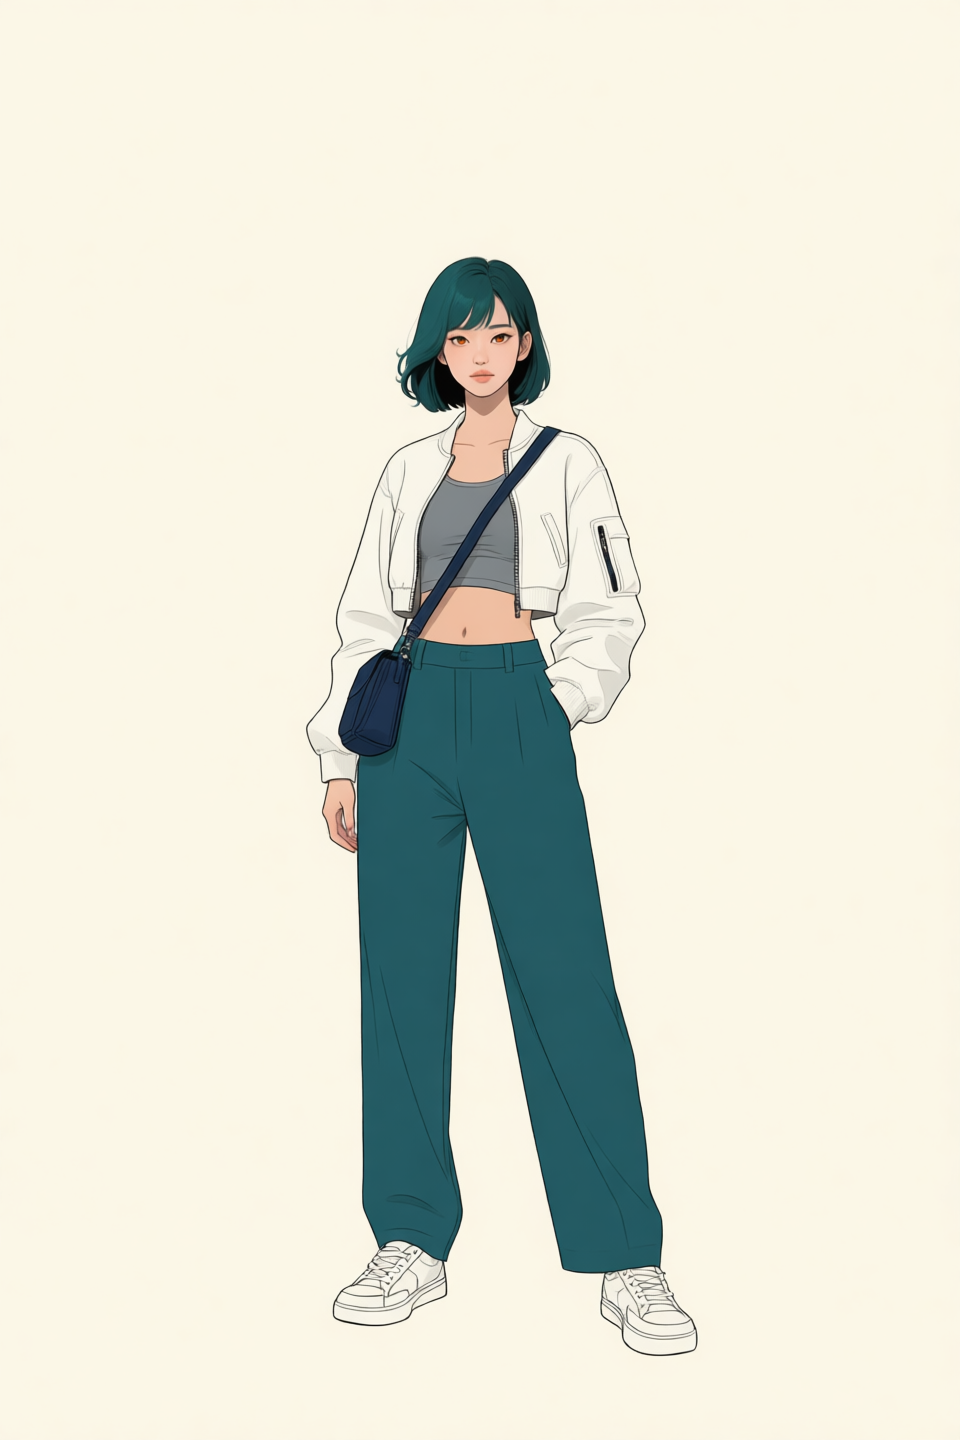
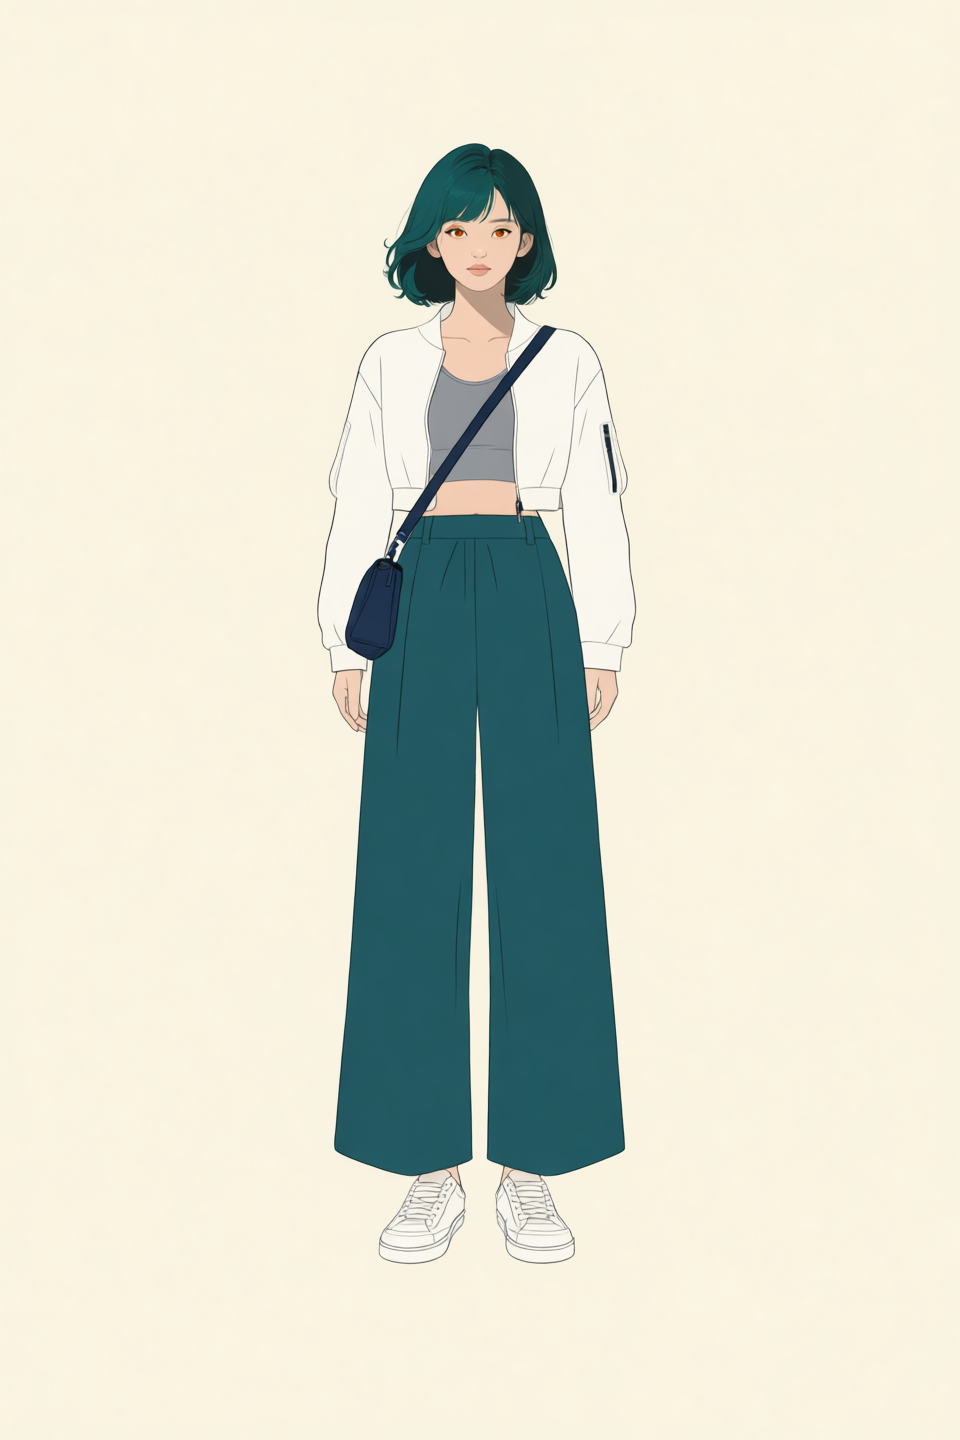
feat(p7-5-2): approve updated Qwen front reference

Changed region(s): [[0.3125, 0.0938, 0.7188, 0.9375]]

diff --git a/docs/assets/part-07/chapter-05/p7_5_2_qwen_edit_reference_pilot.py b/docs/assets/part-07/chapter-05/p7_5_2_qwen_edit_reference_pilot.py
@@ -22,7 +22,7 @@ from pathlib import Path
 
 import numpy as np
 import torch
-from diffusers import QwenImageControlNetModel, QwenImageControlNetPipeline, QwenImageEditPlusPipeline, QwenImagePipeline
+from diffusers import QwenImageEditPlusPipeline, QwenImagePipeline
 from diffusers.utils import load_image
 from nunchaku import NunchakuQwenImageTransformer2DModel
 from PIL import Image
@@ -37,7 +37,6 @@ MODEL_ID = "Qwen/Qwen-Image-Edit-2509"
 TRANSFORMER_ID = "nunchaku-tech/nunchaku-qwen-image-edit-2509/svdq-fp4_r128-qwen-image-edit-2509.safetensors"
 BASE_MODEL_ID = "Qwen/Qwen-Image"
 BASE_TRANSFORMER_ID = "/home/cbsim/.cache/huggingface/hub/models--nunchaku-tech--nunchaku-qwen-image/snapshots/4d9f4f667ea571ab172e0ee29ac2c27b82a41a6b/svdq-fp4_r128-qwen-image.safetensors"
-CONTROLNET_ID = "InstantX/Qwen-Image-ControlNet-Union"
 OUTPUT_DIR = ASSETS / "p7-5-2-qwen-edit-candidates"
 DEFAULT_STEPS = 20
 QWEN_FACE_REFERENCE = "p7-5-2-face-front-qwen-role-separated-reference.png"
@@ -148,7 +147,7 @@ TARGETS = {
         "inputs": (
             QWEN_FACE_REFERENCE,
             "p7-5-2-fullbody-front-qwen-jacket-bag-reference.png",
-            "p7-5-2-openpose-five-yaw-pitch0-fov30-5-v2/p7-5-2-openpose-relation-yaw+00_pitch+00.png",
+            "p7-5-2-openpose-five-yaw-pitch0-fov30-frame-up-v1/p7-5-2-openpose-relation-yaw+00_pitch+00.png",
         ),
         "append_style_prompt": False,
         "append_illustration_prompt": True,
@@ -302,80 +301,6 @@ TARGETS = {
             "Image 3 is a body-only OpenPose structural map; do not render it. Create one upright 45-degree left front-quarter full body from hair crown to shoe soles. The nearer image-right hand rests on the waist while its elbow is lifted wide at shoulder height, creating a large triangular arm silhouette; the image-left arm is lowered. Shift weight onto the nearer leg with the far knee and foot relaxed behind. Plain warm off-white background, one person, no text, panel, collage, or scene."
         ),
     },
-    "fullbody_quarter_left_hand_on_hip_controlnet": {
-        "inputs": (),
-        "control_image": "p7-5-2-openpose-quarter-left-hand-on-hip-elbow-out-perspective-v5/p7-5-2-openpose-relation-yaw-45_pitch+00.png",
-        "append_style_prompt": False,
-        "append_illustration_prompt": True,
-        "default_steps": 12,
-        "size": (960, 1440),
-        "prompt": (
-            "Clean character illustration, not a photograph; dark outlines, solid colors, four-value shading, and strong highlights. A young East Asian woman, compact oval face, high straight nose, amber irises, asymmetric fringe, high-volume petrol-teal jaw-length bob; ultra-short white cropped utility jacket with long cuffed sleeves, gray micro-crop top, bare midriff, deep-teal high-waisted wide-leg trousers, white low-top sneakers, navy crossbody bag and one exterior strap. Strict 45-degree left front-quarter full body, image-right hand on waist with elbow lifted wide, image-left arm lowered, weight on nearer leg. Plain warm off-white studio background. Full figure from hair crown to both shoe soles with a clear margin below the shoes; no dark background, no cropped feet, no text, panel, or scene."
-        ),
-        "negative_prompt": "dark navy background, black background, night scene, cropped feet, missing shoes, photograph, text, panel",
-    },
-    "fullbody_quarter_left_controlnet_runtime_validation": {
-        "inputs": (),
-        "control_image": "p7-5-2-openpose-five-yaw-pitch0-fov30-frame-up-v1/p7-5-2-openpose-relation-yaw-45_pitch+00.png",
-        "append_style_prompt": False,
-        "append_illustration_prompt": True,
-        "default_steps": 5,
-        "controlnet_conditioning_scale": 1.0,
-        "size": (960, 1440),
-        "prompt": (
-            "One young East Asian woman, true 45-degree left front-quarter full body from hair crown to shoe soles. "
-            "Petrol-teal jaw-length bob, white ultra-short cropped utility jacket, gray crop top, bare midriff, deep-teal "
-            "high-waisted wide-leg trousers, white low-top sneakers, navy crossbody bag. Plain warm off-white background."
-        ),
-        "negative_prompt": "photograph, text, panel, collage, dark background, cropped feet, missing shoes",
-    },
-    "fullbody_quarter_left_hand_on_hip_controlnet_identity_prompt": {
-        "inputs": (),
-        "control_image": "p7-5-2-openpose-quarter-left-hand-on-hip-elbow-out-perspective-v5/p7-5-2-openpose-relation-yaw-45_pitch+00.png",
-        "append_style_prompt": False,
-        "append_illustration_prompt": False,
-        "default_steps": 20,
-        "controlnet_conditioning_scale": 0.85,
-        "size": (960, 1440),
-        "prompt": (
-            "Character-sheet illustration of one young East Asian woman. Her non-negotiable identity is a saturated petrol-teal, high-volume rounded jaw-length bob, with a deep asymmetric sweeping fringe, a compact oval face, a high straight nose, and amber irises. Use dark clean outlines, solid colors, deep four-value cel shading, and clear highlights; never render a photograph. "
-            "She wears an ultra-short white cropped utility jacket with long cuffed sleeves over a gray micro-crop top and visible midriff, deep-teal high-waisted wide-leg trousers, white low-top sneakers, and a navy crossbody bag with one exterior strap. "
-            "Strict 45-degree left front-quarter full body: image-right hand on waist, elbow lifted wide; image-left arm lowered; weight on the nearer leg. Plain warm off-white studio background. Show the full figure from hair crown to both shoe soles, with a clear margin below the shoes. No text, panel, collage, scene, dark background, cropped feet, missing shoes, brown hair, black hair, long hair, or low-volume hair."
-        ),
-        "negative_prompt": "brown hair, black hair, long hair, low-volume hair, dark navy background, black background, night scene, cropped feet, missing shoes, photograph, text, panel, collage",
-    },
-    "fullbody_quarter_left_hand_on_hip_controlnet_hair_color": {
-        "inputs": (),
-        "control_image": "p7-5-2-openpose-quarter-left-hand-on-hip-elbow-out-perspective-v5/p7-5-2-openpose-relation-yaw-45_pitch+00.png",
-        "append_style_prompt": False,
-        "append_illustration_prompt": False,
-        "default_steps": 20,
-        "controlnet_conditioning_scale": 0.85,
-        "size": (960, 1440),
-        "prompt": (
-            "Character-sheet illustration of one young East Asian woman. Her hair is mandatory: every visible hair mass and strand is deep petrol-teal blue-green, never black or brown. It is an extremely voluminous rounded jaw-length bob with medium-density hair, a deep viewer-right side part, and a full short fringe sweeping across the viewer-left forehead and ending above the eyebrow. Large loose S-waves, pronounced inward C-curls, and tapered side locks create an expansive rounded teal silhouette. Her compact oval face has a high straight nose and equal orange-amber irises. "
-            "Use clean dark outlines, solid colors, deep four-value cel shading, and clear highlights; never render a photograph. "
-            "She wears an ultra-short white cropped utility jacket with long cuffed sleeves over a gray micro-crop top and visible midriff, deep-teal high-waisted wide-leg trousers, white low-top sneakers, and a navy crossbody bag with one exterior strap. "
-            "Strict 45-degree left front-quarter full body: image-right hand rests visibly on waist with elbow lifted wide; image-left arm is lowered and its complete hand is visibly beside the thigh, not hidden by the bag. Keep both white shoes fully visible below the trouser hems. Plain warm off-white studio background. Show the full figure from teal hair crown to both shoe soles, with a clear margin below the shoes. No text, panel, collage, scene, dark background, cropped body parts, missing hands, missing shoes, black hair, brown hair, long hair, or low-volume hair."
-        ),
-        "negative_prompt": "black hair, brown hair, near-black hair, long hair, low-volume hair, hidden hand, missing hand, cropped feet, missing shoes, dark navy background, black background, night scene, photograph, text, panel, collage",
-    },
-    "fullbody_quarter_left_hand_on_hip_face_identity_refine": {
-        "inputs": (
-            "p7-5-2-qwen-edit-candidates/p7-5-2-qwen-edit-prompt-style-fullbody_quarter_left_hand_on_hip_controlnet-v3-control-image-offwhite-fullbody-quality-seed-62294-steps-12.png",
-            QWEN_FACE_REFERENCE,
-        ),
-        "append_style_prompt": False,
-        "append_illustration_prompt": True,
-        "default_steps": 5,
-        "size": (960, 1440),
-        "prompt": (
-            "Image 1 is the locked full-body composition: preserve its 45-degree left front-quarter pose, image-right hand on the waist with the elbow wide, lowered image-left arm, warm off-white background, full-body framing, jacket, crossbody bag, wide-leg trousers, and both sneakers. "
-            "Image 2 is the exact identity reference: replace only the head and face in image 1 to match it. Preserve its saturated petrol-teal jaw-length bob with high rounded volume, asymmetric sweeping fringe, compact oval face, high straight nose, and amber irises. "
-            "Do not change the body pose, head size, camera, background, clothing, bag, trousers, shoes, or crop. Keep the head naturally turned with the existing quarter view. One clean character illustration, no text, panel, or collage."
-        ),
-        "negative_prompt": "brown hair, black hair, long hair, low-volume hair, dark navy background, black background, cropped feet, missing shoes, photograph, text, panel, collage",
-    },
     "fullbody_front_quarter_left_qwen": {
         "inputs": (
             "p7-5-2-fullbody-front-qwen-jacket-bag-reference.png",
@@ -511,7 +436,7 @@ def openpose_module():
 
 
 def save_openpose_guide(target_id: str, path: Path) -> None:
-    """Render a canonical ControlNet/OpenPose BODY_18 + face-landmark map.
+    """Render a canonical OpenPose BODY_18 + face-landmark guide.
 
     No subject RGB pixels are used.  Direction comes from the nose displacement
     and asymmetric face-landmark geometry, then the installed OpenPose renderer
@@ -621,25 +546,6 @@ def load_pipeline(image_edit: bool):
     return pipe
 
 
-def load_controlnet_pipeline():
-    transformer = NunchakuQwenImageTransformer2DModel.from_pretrained(BASE_TRANSFORMER_ID)
-    controlnet = QwenImageControlNetModel.from_pretrained(CONTROLNET_ID, torch_dtype=torch.bfloat16, local_files_only=True)
-    pipe = QwenImageControlNetPipeline.from_pretrained(
-        BASE_MODEL_ID,
-        transformer=transformer,
-        controlnet=controlnet,
-        torch_dtype=torch.bfloat16,
-        local_files_only=True,
-    )
-    # This path has an additional ControlNet next to the Qwen-VL text encoder.
-    # Keep one quantized transformer block resident, then sequentially offload
-    # all remaining modules on the 7.5GB GPU.
-    transformer.set_offload(True, use_pin_memory=False, num_blocks_on_gpu=1)
-    pipe._exclude_from_cpu_offload.append("transformer")
-    pipe.enable_sequential_cpu_offload()
-    return pipe
-
-
 def main() -> None:
     parser = argparse.ArgumentParser(description=__doc__)
     parser.add_argument("--target", choices=tuple(TARGETS), required=True)
@@ -658,11 +564,8 @@ def main() -> None:
     if steps < 1:
         raise ValueError("--steps must be at least 1")
     inputs = [ASSETS / name for name in target["inputs"]]
-    control_path = ASSETS / target["control_image"] if "control_image" in target else None
     if missing := [str(path) for path in inputs if not path.is_file()]:
         raise FileNotFoundError("missing input asset(s): " + ", ".join(missing))
-    if control_path is not None and not control_path.is_file():
-        raise FileNotFoundError(f"missing control image: {control_path}")
     if not PLAN.is_file() or not IDENTITY_CONTRACT.is_file() or not STYLE_CONTRACT.is_file() or not ILLUSTRATION_CONTRACT.is_file():
         raise FileNotFoundError("missing P7-5.2 Qwen transition plan, identity, style, or illustration contract")
     style_prompt = json.loads(STYLE_CONTRACT.read_text(encoding="utf-8"))["portrait_style_prompt"]
@@ -681,7 +584,7 @@ def main() -> None:
     output = args.output_dir / f"{stem}.png"
     run_record = args.output_dir / f"{stem}-run.json"
     started = time.monotonic()
-    pipeline = load_controlnet_pipeline() if control_path else load_pipeline(image_edit=bool(inputs))
+    pipeline = load_pipeline(image_edit=bool(inputs))
     generation = {
         "prompt": prompt,
         "generator": torch.Generator("cpu").manual_seed(args.seed),
@@ -694,15 +597,12 @@ def main() -> None:
     }
     if inputs:
         generation["image"] = [load_image(str(path)).convert("RGB") for path in inputs]
-    if control_path:
-        generation["control_image"] = load_image(str(control_path)).convert("RGB")
-        generation["controlnet_conditioning_scale"] = target.get("controlnet_conditioning_scale", 1.0)
     result = pipeline(**generation).images[0]
     result.save(output)
     record = {
         "status": "review_required",
         "experiment_id": f"p7-5-2-qwen-edit-{args.target}",
-        "model": BASE_MODEL_ID if control_path or not inputs else MODEL_ID,
+        "model": MODEL_ID if inputs else BASE_MODEL_ID,
         "transformer": TRANSFORMER_ID if inputs else BASE_TRANSFORMER_ID,
         "runtime": runtime_record(),
         "transition_plan": asset_record(PLAN),
@@ -715,13 +615,10 @@ def main() -> None:
         },
         "target": args.target,
         "run_label": args.run_label,
-        "inputs": [asset_record(path) for path in inputs] + ([asset_record(control_path)] if control_path else []),
+        "inputs": [asset_record(path) for path in inputs],
         "input_roles": (
             []
             if args.target in {"outfit_integrated_front_hip", "outfit_integrated_front_full_length"}
-            else
-            ["standard_openpose_fullbody_control_image"]
-            if control_path
             else
             ["head_identity", "qwen_complete_outfit", "standard_openpose_fullbody_structure"]
             if args.target in {

diff --git a/management/release-notes/sections/part-07/P7-5.2.md b/management/release-notes/sections/part-07/P7-5.2.md
@@ -5,6 +5,7 @@
 
 ### v2026.08.19
 
+- Qwen 정면 전신 기준 재승인·교체: 승인 Qwen 얼굴·착장 앵커·프레임을 위로 올린 `yaw 0°` body-only OpenPose를 세 입력으로 사용한 `seed=62294`, `960×1440`, `30 step` 후보를 현재 안정 PNG·run JSON·review JSON으로 교체했다. 승인 범위는 정면 전신, 청록 단발·호박색 홍채, 흰 초단 크롭 재킷·회색 이너 탑·딥틸 와이드 팬츠·흰 스니커즈·남색 크로스백 재현에 한정하며, 원고 표의 이미지와 검수 링크도 갱신했다.
 - Qwen 착장·가방 기준 재승인: 이미지 입력 없이 `seed=62294`, `768×1152`, `10 step`으로 생성한 의상 전용 후보를 승인해 안정 PNG·run JSON·review JSON으로 교체했다. 흰 초단 크롭 재킷·회색 이너 탑·딥틸 와이드 팬츠·흰 스니커즈·남색 크로스백은 복장 입력으로 사용하며, 앵커의 일반 얼굴·머리·자세는 identity·비례 기준이 아니다.
 - 피치 0 5방향 body-only OpenPose 승인: `yaw −90°/−45°/0°/+45°/+90°`의 결정론적 7등신·한 손 허리 비대칭 서기 맵을 사람 승인해 각 PNG·좌표 JSON·검수 기록으로 등록했다. 수평 FOV `30.5°`와 카메라 거리 `10.8`을 코드 상수와 manifest에 함께 기록해 원근·전신 프레이밍의 재현 기준을 분리했다. 원고에는 5방향 contact sheet, manifest, 개별 review JSON과 생성 코드를 연결했다. 이 승인은 body-only 구조에 한정하며 캐릭터 identity·머리·착장·가방을 승인하지 않는다.
 - FLUX로 생성해 승인했던 방향 얼굴·전신·리파인 이미지와 review JSON을 모두 제거했다. 해당 18장 기반 LoRA 입력 계획과 원고의 이미지·review 링크를 폐기하고, 새 방향 자산은 Qwen 기준에서 별도 검수 후 다시 등록하도록 정리했다.

diff --git a/docs/parts/part-07/chapter-05/section-02.md b/docs/parts/part-07/chapter-05/section-02.md
@@ -184,7 +184,7 @@ Flux로 만든 착장 통합 기준은 폐기했습니다. 현재 정면 전신 
 
 | Qwen 전신 정면·자켓·가방 기준 | 검수 기록 |
 | --- | --- |
-| ![승인된 Qwen 전신 정면 자켓·가방 기준](../../../assets/part-07/chapter-05/p7-5-2-fullbody-front-qwen-jacket-bag-reference.png) | <a class="aibook-source-link" href="/AiBook/assets/part-07/chapter-05/p7-5-2-fullbody-front-qwen-jacket-bag-reference-review.json" data-language="json">review.json</a> |
+| ![승인된 Qwen 전신 정면 자켓·가방 기준](../../../assets/part-07/chapter-05/p7-5-2-fullbody-front-qwen-approved-outfit-reference.png) | <a class="aibook-source-link" href="/AiBook/assets/part-07/chapter-05/p7-5-2-fullbody-front-qwen-approved-outfit-reference-review.json" data-language="json">review.json</a> · <a class="aibook-source-link" href="/AiBook/assets/part-07/chapter-05/p7-5-2-fullbody-front-qwen-approved-outfit-reference-run.json" data-language="json">run.json</a> |
 
 좌측 측면도 같은 세 입력으로 다시 생성해 사람 승인했습니다. 이때 `yaw −90°`, `pitch 0°`의 7등신 body-only OpenPose는 머리·몸통·골반·무릎·신발이 이미지 왼쪽을 향하는 구조만 전달하며, 얼굴·의상·가방의 기준은 각각 Qwen 얼굴과 Qwen 정면 착장 앵커에 남겨 둡니다. 따라서 좌측 측면 승인에는 방향·전신 프레이밍·소품 연속성만 포함되고, 쿼터나 반대 방향은 자동 승인하지 않습니다.
 
